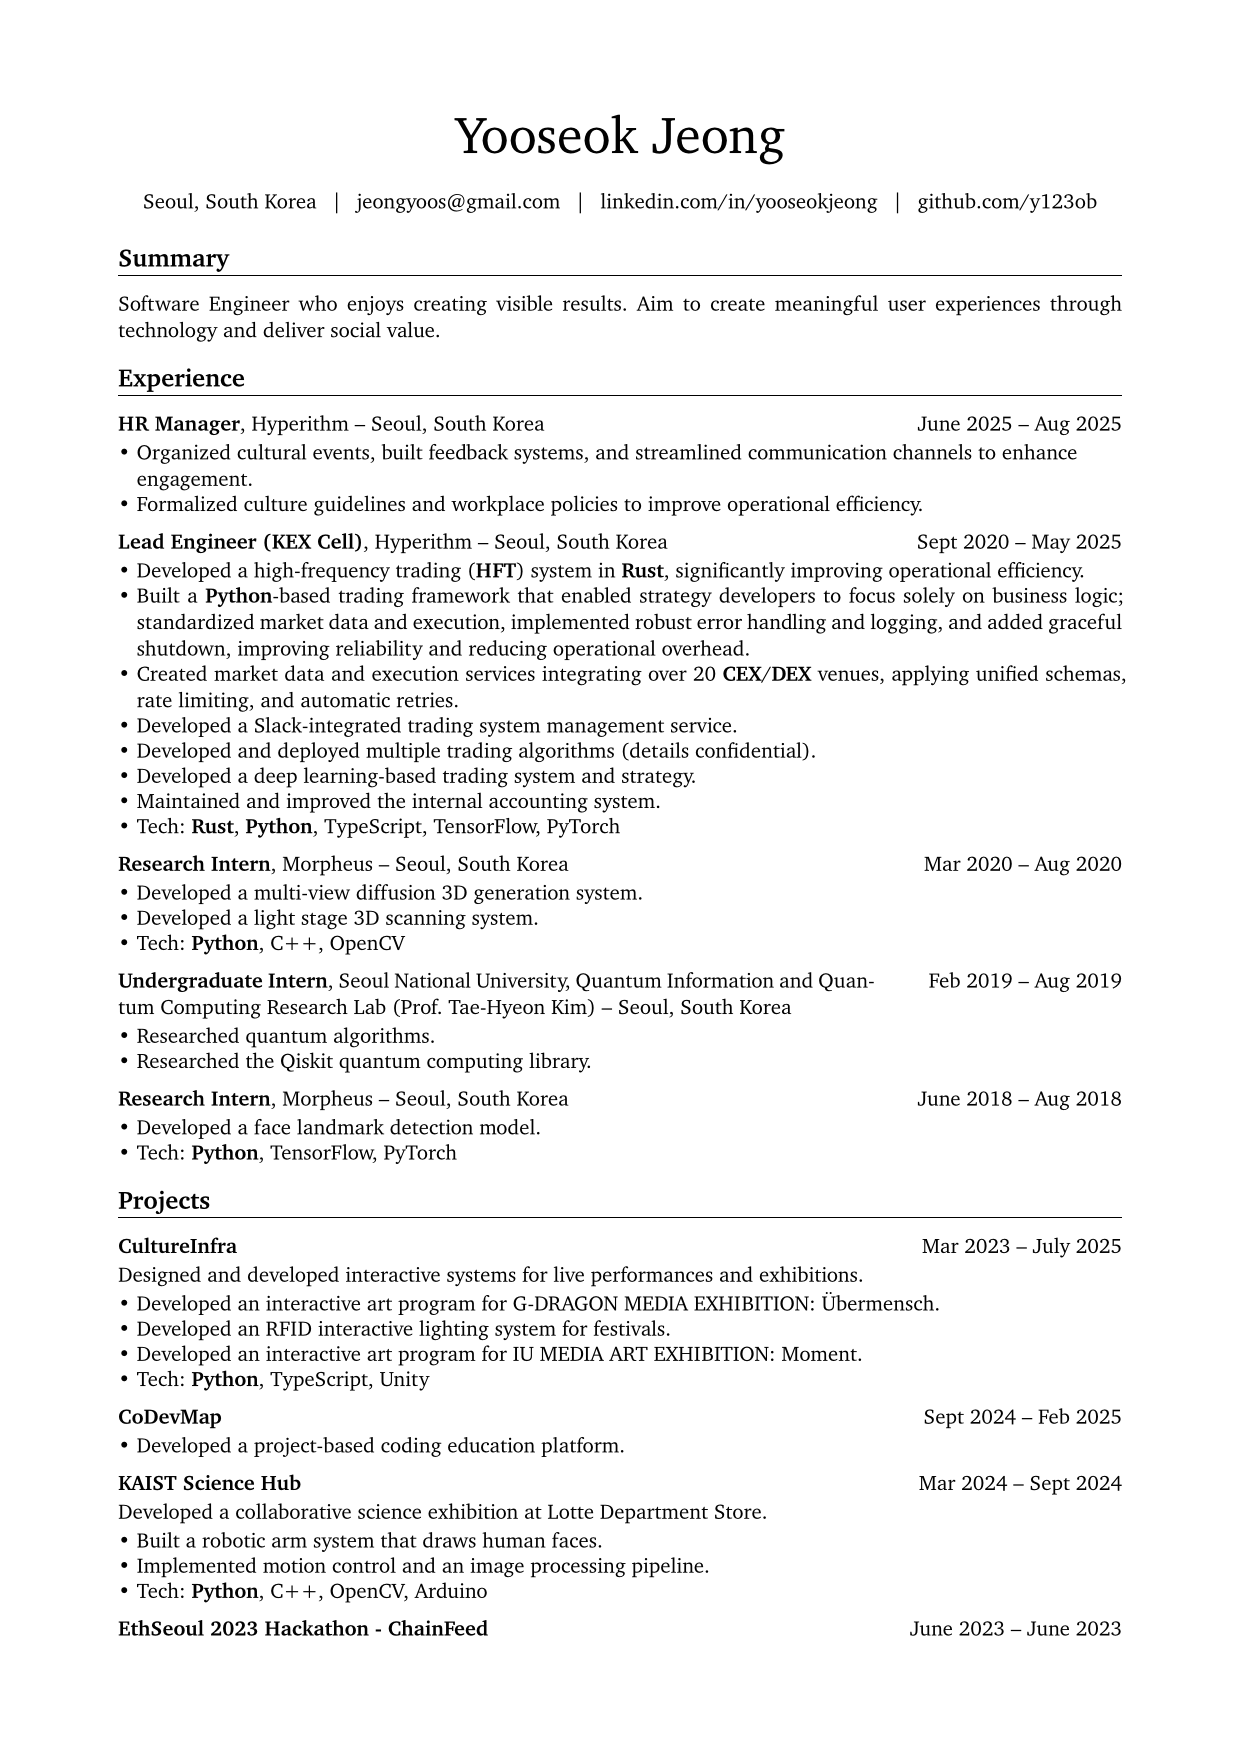
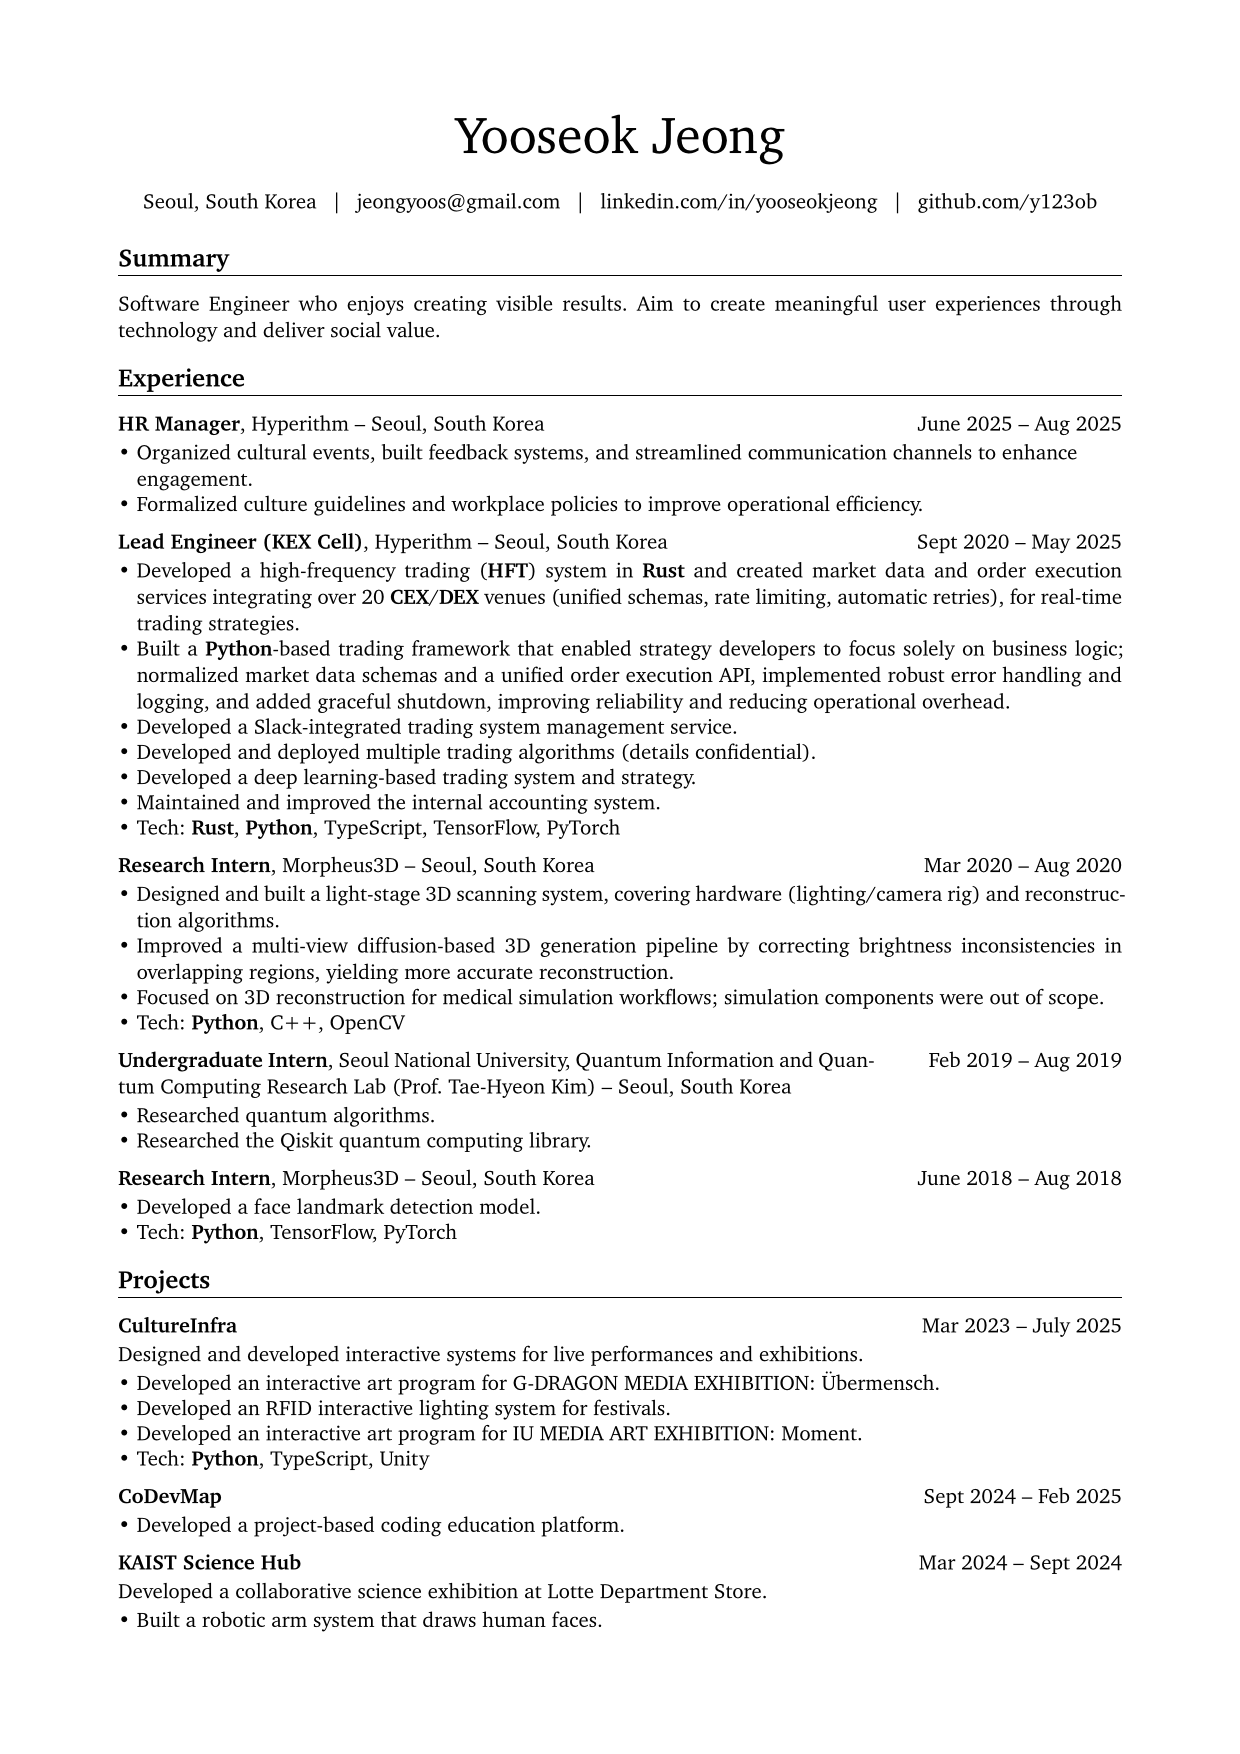
docs(cv): apply feedback

diff --git a/rendercv_output/Yooseok_Jeong_CV.html b/rendercv_output/Yooseok_Jeong_CV.html
@@ -60,21 +60,21 @@
         <ul>
         <li>Sept 2020 – May 2025</li>
         <li>Seoul, South Korea</li>
-        <li>Developed a high-frequency trading (<strong>HFT</strong>) system in <strong>Rust</strong>, significantly improving operational efficiency.</li>
-        <li>Built a <strong>Python</strong>-based trading framework that enabled strategy developers to focus solely on business logic; standardized market data and execution, implemented robust error handling and logging, and added graceful shutdown, improving reliability and reducing operational overhead.</li>
-        <li>Created market data and execution services integrating over 20 <strong>CEX</strong>/<strong>DEX</strong> venues, applying unified schemas, rate limiting, and automatic retries.</li>
+        <li>Developed a high-frequency trading (<strong>HFT</strong>) system in <strong>Rust</strong> and created market data and order execution services integrating over 20 <strong>CEX</strong>/<strong>DEX</strong> venues (unified schemas, rate limiting, automatic retries), for real-time trading strategies.</li>
+        <li>Built a <strong>Python</strong>-based trading framework that enabled strategy developers to focus solely on business logic; normalized market data schemas and a unified order execution API, implemented robust error handling and logging, and added graceful shutdown, improving reliability and reducing operational overhead.</li>
         <li>Developed a Slack-integrated trading system management service.</li>
         <li>Developed and deployed multiple trading algorithms (details confidential).</li>
         <li>Developed a deep learning-based trading system and strategy.</li>
         <li>Maintained and improved the internal accounting system.</li>
         <li>Tech: <strong>Rust</strong>, <strong>Python</strong>, TypeScript, TensorFlow, PyTorch</li>
         </ul>
-        <h2>Morpheus, Research Intern</h2>
+        <h2>Morpheus3D, Research Intern</h2>
         <ul>
         <li>Mar 2020 – Aug 2020</li>
         <li>Seoul, South Korea</li>
-        <li>Developed a multi-view diffusion 3D generation system.</li>
-        <li>Developed a light stage 3D scanning system.</li>
+        <li>Designed and built a light-stage 3D scanning system, covering hardware (lighting/camera rig) and reconstruction algorithms.</li>
+        <li>Improved a multi-view diffusion-based 3D generation pipeline by correcting brightness inconsistencies in overlapping regions, yielding more accurate reconstruction.</li>
+        <li>Focused on 3D reconstruction for medical simulation workflows; simulation components were out of scope.</li>
         <li>Tech: <strong>Python</strong>, C++, OpenCV</li>
         </ul>
         <h2>Seoul National University, Quantum Information and Quantum Computing Research Lab (Prof. Tae-Hyeon Kim), Undergraduate Intern</h2>
@@ -84,7 +84,7 @@
         <li>Researched quantum algorithms.</li>
         <li>Researched the Qiskit quantum computing library.</li>
         </ul>
-        <h2>Morpheus, Research Intern</h2>
+        <h2>Morpheus3D, Research Intern</h2>
         <ul>
         <li>June 2018 – Aug 2018</li>
         <li>Seoul, South Korea</li>
@@ -146,7 +146,6 @@
         <ul>
         <li>Mar 2014 – Feb 2017</li>
         <li>Seoul, South Korea</li>
-        <li>GPA: 4.07/4.30</li>
         </ul>
         <h1>Awards</h1>
         <ul>

diff --git a/rendercv_output/Yooseok_Jeong_CV.md b/rendercv_output/Yooseok_Jeong_CV.md
@@ -23,21 +23,21 @@ Software Engineer who enjoys creating visible results. Aim to create meaningful 
 
 - Sept 2020 – May 2025
 - Seoul, South Korea
-- Developed a high-frequency trading (**HFT**) system in **Rust**, significantly improving operational efficiency.
-- Built a **Python**-based trading framework that enabled strategy developers to focus solely on business logic; standardized market data and execution, implemented robust error handling and logging, and added graceful shutdown, improving reliability and reducing operational overhead.
-- Created market data and execution services integrating over 20 **CEX**/**DEX** venues, applying unified schemas, rate limiting, and automatic retries.
+- Developed a high-frequency trading (**HFT**) system in **Rust** and created market data and order execution services integrating over 20 **CEX**/**DEX** venues (unified schemas, rate limiting, automatic retries), for real-time trading strategies.
+- Built a **Python**-based trading framework that enabled strategy developers to focus solely on business logic; normalized market data schemas and a unified order execution API, implemented robust error handling and logging, and added graceful shutdown, improving reliability and reducing operational overhead.
 - Developed a Slack-integrated trading system management service.
 - Developed and deployed multiple trading algorithms (details confidential).
 - Developed a deep learning-based trading system and strategy.
 - Maintained and improved the internal accounting system.
 - Tech: **Rust**, **Python**, TypeScript, TensorFlow, PyTorch
 
-## Morpheus, Research Intern
+## Morpheus3D, Research Intern
 
 - Mar 2020 – Aug 2020
 - Seoul, South Korea
-- Developed a multi-view diffusion 3D generation system.
-- Developed a light stage 3D scanning system.
+- Designed and built a light-stage 3D scanning system, covering hardware (lighting/camera rig) and reconstruction algorithms.
+- Improved a multi-view diffusion-based 3D generation pipeline by correcting brightness inconsistencies in overlapping regions, yielding more accurate reconstruction.
+- Focused on 3D reconstruction for medical simulation workflows; simulation components were out of scope.
 - Tech: **Python**, C++, OpenCV
 
 ## Seoul National University, Quantum Information and Quantum Computing Research Lab (Prof. Tae-Hyeon Kim), Undergraduate Intern
@@ -47,7 +47,7 @@ Software Engineer who enjoys creating visible results. Aim to create meaningful 
 - Researched quantum algorithms.
 - Researched the Qiskit quantum computing library.
 
-## Morpheus, Research Intern
+## Morpheus3D, Research Intern
 
 - June 2018 – Aug 2018
 - Seoul, South Korea
@@ -110,7 +110,6 @@ Software Engineer who enjoys creating visible results. Aim to create meaningful 
 
 - Mar 2014 – Feb 2017
 - Seoul, South Korea
-- GPA: 4.07/4.30
 
 # Awards
 
